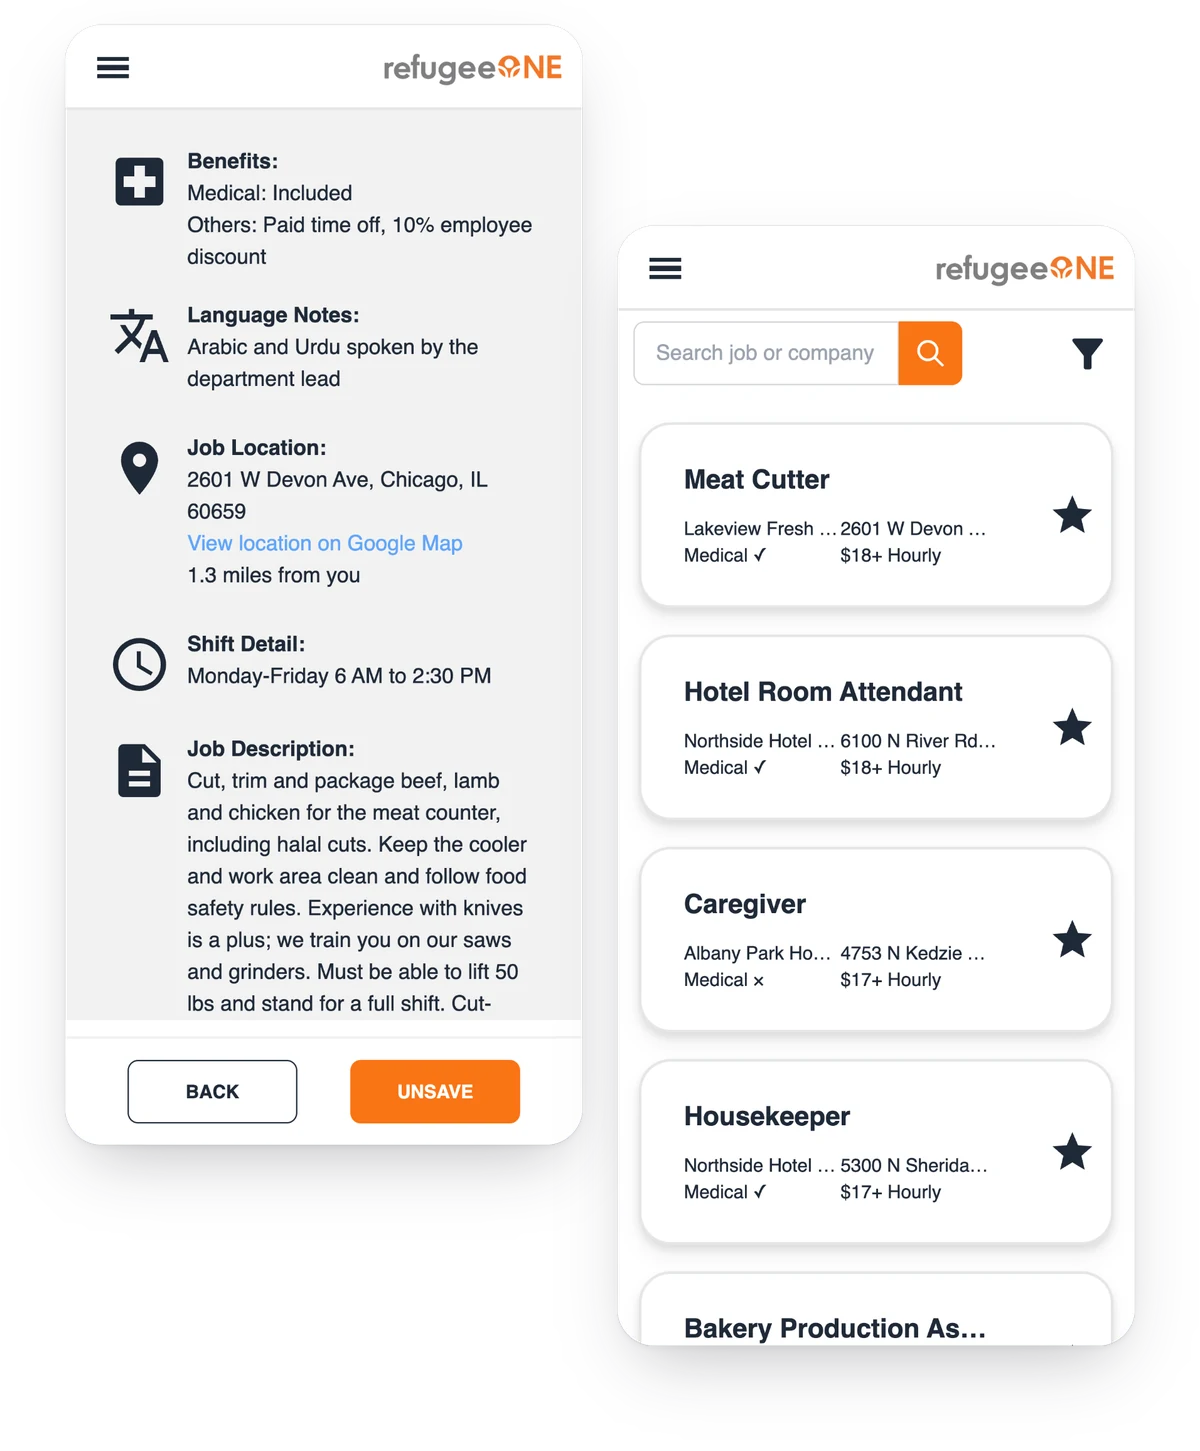
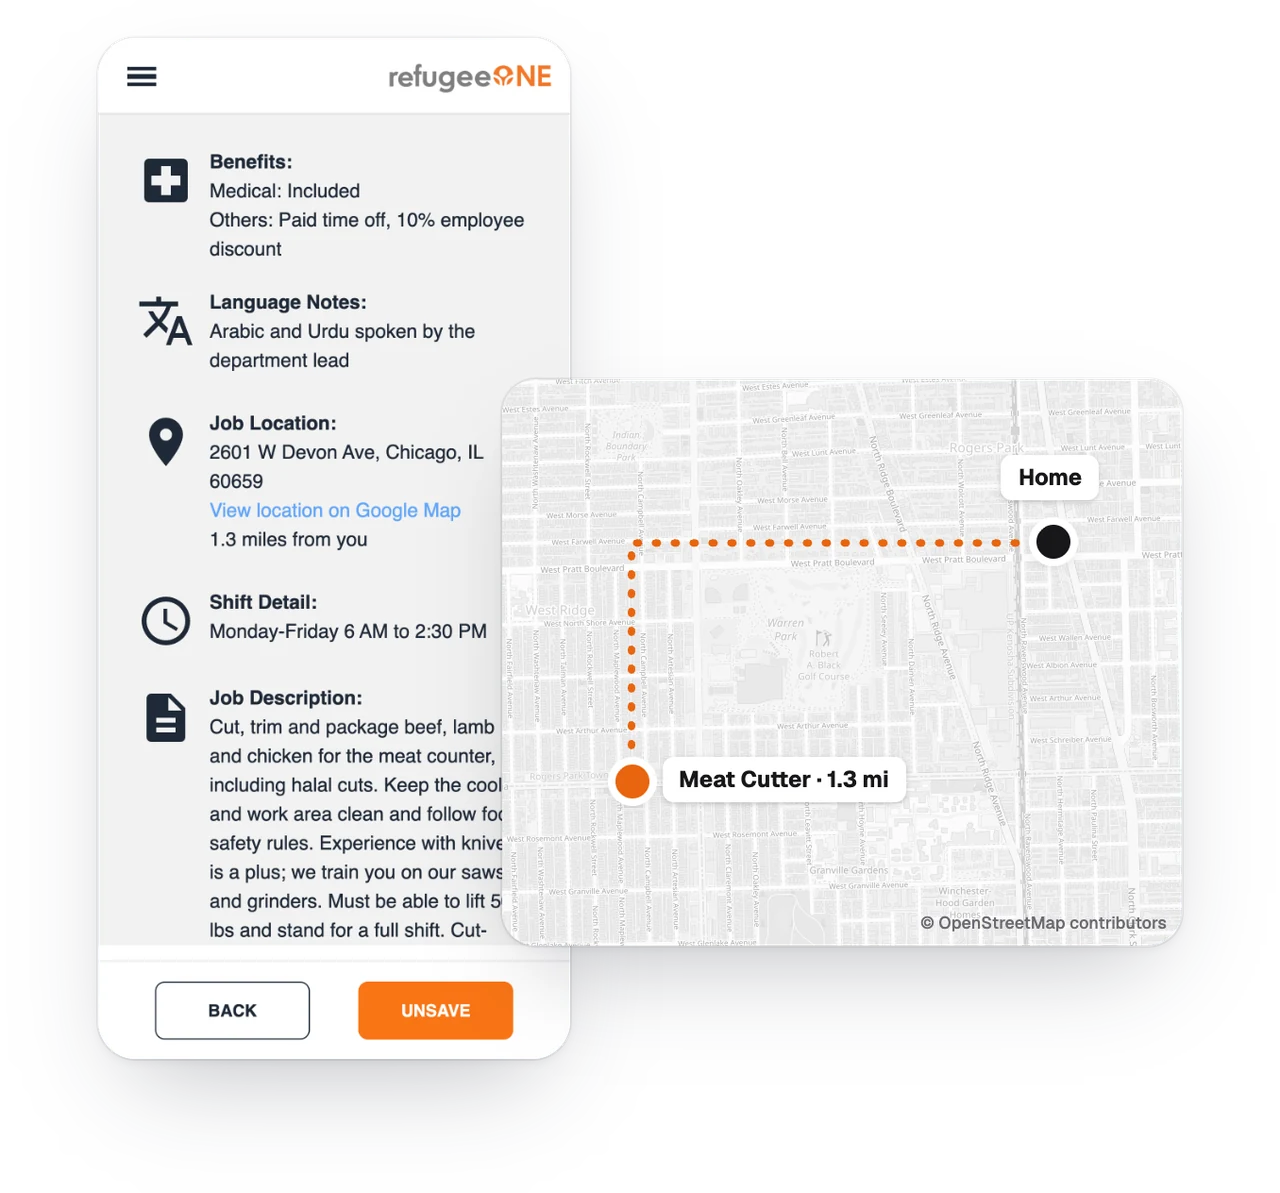
RefugeeOne product: numbered dividers for the three sides, the same feature rows for each, the save star moves to the cards, a map for the commute, plainer filter copy (#84)

diff --git a/src/data/cases/refugeeone.ts b/src/data/cases/refugeeone.ts
@@ -98,24 +98,18 @@ const workflows: CaseBlock[] = [
 ];
 
 const screensRefugee: CaseBlock[] = [
-  { t: "feature", bare: true, src: "refugeeone/client-cards.png", title: "The facts first", text: "Every card leads with what refugees check first: the role, the employer, the address, starting pay and whether medical is included. One tap opens the rest, each field with its own icon." },
-  { t: "feature", bare: true, src: "refugeeone/client-filter.png", title: "Filters built around a day", text: "Pay floor, English level, 22 languages, a shift window and distance from home. A refugee can ask for ==full-time, $17 an hour or more, between 6 a.m. and 6 p.m., within five miles, with medical==." },
-  { t: "feature", bare: true, src: "refugeeone/client-distance.png", title: "How far is it?", text: "Distance from home is worked out from the client's address, so every job says how many miles away it is, and the location opens in Google Maps with one tap. A star saves the job for the next meeting with staff." },
+  { t: "feature", bare: true, src: "refugeeone/client-cards.png", title: "The facts first", text: "Each card shows the role, employer, address, starting pay and medical, with a star to save it for later. Tap a card for every detail, each with its own icon." },
+  { t: "feature", bare: true, src: "refugeeone/client-filter.png", title: "Filters built around a day", text: "Refugees filter by what decides a job for them: ==pay, shift times, English level, language, distance and benefits==." },
+  { t: "feature", bare: true, src: "refugeeone/client-distance.png", title: "How far is it?", text: "Every job shows how many miles it is from home, and opens in Google Maps in one tap to check the commute." },
 ];
 
 const screensEmployer: CaseBlock[] = [
-  { t: "sub", text: "Post once, track it" },
-  { t: "p", text: "Employers post from a laptop, save a long form as a draft, and follow each job through Pending, Approved and Action Required. When staff send a job back, their note shows up right on it." },
-  { t: "img", src: "refugeeone/employer.png", caption: "An employer's dashboard: a job sent back with feedback from RefugeeOne, on a laptop and a phone", w: 1040 },
+  { t: "feature", bare: true, src: "refugeeone/employer.png", title: "Post once, track it", text: "Employers post from a laptop, save long forms as drafts, and follow each job through Pending, Approved and Action Required. When staff send a job back, their note appears right on it." },
 ];
 
 const screensStaff: CaseBlock[] = [
-  { t: "sub", text: "One queue for every job" },
-  { t: "p", text: "Staff see every new posting in one place and approve, edit or reject it. A rejection can carry a reason, which the employer sees as feedback." },
-  { t: "img", src: "refugeeone/admin-queue.png", caption: "Rejecting a posting with a reason the employer will see", w: 1040 },
-  { t: "sub", text: "RefugeeOne holds the keys" },
-  { t: "p", text: "Staff create refugee accounts themselves and approve each employer who signs up. Nobody hands out passwords: new users get an email and set their own." },
-  { t: "img", src: "refugeeone/admin-accounts.png", caption: "Manage Accounts: employers waiting for approval sort to the top", w: 1040 },
+  { t: "feature", bare: true, src: "refugeeone/admin-queue.png", title: "One queue for every job", text: "Every new posting lands in one queue. Staff approve, edit or reject it, and a rejection can carry a note the employer sees." },
+  { t: "feature", bare: true, src: "refugeeone/admin-accounts.png", title: "RefugeeOne holds the keys", text: "Staff create refugee accounts and approve every employer who signs up. New users get an email and set their own password." },
 ];
 
 const demo: CaseBlock = { t: "embed", kind: "youtube", src: "https://www.youtube-nocookie.com/embed/YzZrsk8REAc?rel=0", caption: "The walkthrough video our team made for the expo" };
@@ -215,11 +209,11 @@ const a: CaseStudy = {
       ...workflows,
     ] },
     { id: "product", label: "The Product", blocks: [
-      { t: "h", text: "For refugees" },
+      { t: "part", title: "For refugees", text: "Find work on their own phones." },
       ...screensRefugee,
-      { t: "h", text: "For employers" },
+      { t: "part", title: "For employers", text: "Post jobs with every detail that matters." },
       ...screensEmployer,
-      { t: "h", text: "For RefugeeOne" },
+      { t: "part", title: "For RefugeeOne", text: "Review every job and every account." },
       ...screensStaff,
       demo,
     ] },

diff --git a/src/apps/ProjectsApp.tsx b/src/apps/ProjectsApp.tsx
@@ -311,6 +311,8 @@ function CaseBlockView({ b, flip, n }: { b: CaseBlock; flip: boolean; n: number 
         {b.note && <p className="note"><Rich text={b.note} /></p>}
       </div>
     );
+  if (b.t === "part")
+    return <div className="cs-part"><span className="n">{String(n).padStart(2, "0")}</span><div><h3>{b.title}</h3>{b.text && <p><Rich text={b.text} /></p>}</div></div>;
   if (b.t === "timeline")
     return <ol className="cs-timeline">{b.items.map((x) => <li key={x.date + x.title}><time>{x.date}</time><div><h4>{x.title}</h4><p><Rich text={x.text} /></p></div></li>)}</ol>;
   if (b.t === "versus")
@@ -409,9 +411,10 @@ export function ProjectDetailApp({ slug }: { slug?: string }) {
         </nav>
       )}
       {cs.sections.map((s, si) => {
-        let features = 0, steps = 0, items = 0;
+        let features = 0, steps = 0, items = 0, parts = 0;
         const blocks = s.blocks.map((b, i) => {
-          const n = b.t === "step" ? ++steps : b.t === "item" ? ++items : 0;
+          const n = b.t === "step" ? ++steps : b.t === "item" ? ++items : b.t === "part" ? ++parts : 0;
+          if (b.t === "part") features = 0; // each part starts with its picture on the left
           return <CaseBlockView key={i} b={b} flip={(b.t === "feature" && features++ % 2 === 1) || (b.t === "item" && n % 2 === 0)} n={n} />;
         });
         // The meta rail sits beside the opening text only; the first band/figure goes full width.

diff --git a/src/styles.css b/src/styles.css
@@ -1166,6 +1166,14 @@ button { font-family: inherit; color: inherit; }
 .cs-stats dd { margin: 6px 0 0; font-family: var(--font-sans); font-size: 15px; line-height: 1.5; color: #494949; text-wrap: pretty; }
 .cs-stats .note { margin: 18px 0 0; font: 14px/1.5 var(--font-sans); color: #777; }
 
+/* part: a numbered divider that opens one part of a section (the three sides of a product) */
+.cs-part { display: grid; grid-template-columns: 64px minmax(0, 1fr); align-items: baseline; margin: 104px 0 8px; padding-top: 28px; border-top: 1px solid #d9d9de; }
+.cs-col > .cs-part:first-child { margin-top: 0; }
+.cs-part .n { font-family: var(--font-display); font-weight: 800; font-size: 28px; line-height: 1.2; color: var(--cs-band, var(--cs)); }
+.cs-part h3 { margin: 0; font-family: var(--font-display); font-weight: 800; font-size: 28px; line-height: 1.25; color: #181818; }
+.cs-part p { margin: 8px 0 0; font-family: var(--font-sans); font-size: 17px; line-height: 1.6; color: #6b6b72; }
+.cs-part + .cs-feature { margin-top: 40px; }
+
 /* timeline: dated milestones on a vertical line */
 .cs-timeline { list-style: none; margin: 32px 0 40px; padding: 0; }
 .cs-timeline li { position: relative; display: grid; grid-template-columns: 112px minmax(0, 1fr); gap: 28px; padding: 0 0 30px; }

diff --git a/src/data/cases.ts b/src/data/cases.ts
@@ -48,6 +48,7 @@ export type CaseBlock =
   | { t: "stats"; items: { value: string; label: string }[]; note?: string } // 2–4 big numbers in one row, a hairline above (impact)
   | { t: "timeline"; items: { date: string; title: string; text: string }[] } // dated milestones on a vertical line
   | { t: "versus"; before: { label: string; title: string; items: string[] }; after: { label: string; title: string; items: string[] } } // what was asked for vs what was built
+  | { t: "part"; title: string; text?: string } // a numbered divider that opens one part of a section (01 For refugees …)
   | { t: "flow"; items: { who: string; title: string; text: string }[] }; // one thing moving through people, left to right (who = the actor tag)
 export interface CaseSection { id: string; label: string; blocks: CaseBlock[]; white?: boolean; dark?: boolean } // dark: a near-black band (game screenshots) // white: keep the band white (white-background slides)
 export interface CaseStudy {

diff --git a/docs/LAYOUT_GUIDE.md b/docs/LAYOUT_GUIDE.md
@@ -145,6 +145,7 @@ Inline marks in any text: `**bold**`, `==highlight==` (use for the one phrase a 
 | `cards` | 2–4 equal cards, numbered unless `numbers: false` | Findings, takeaways, the roles someone played |
 | `sprints` | A gantt of weeks, phases and tracks | A sprint plan |
 | `metrics` / `chat` / `panels` | Numbered metric cards; old-site speech bubbles; old-site feature panels | Connectr's research and metrics |
+| `part` | A numbered divider (01, 02 …) with a hairline, a 28px title and an optional one-line lead; feature rows restart on the left after it | Splitting one section into parallel parts, e.g. the three sides of a product. Give every part the same block form |
 | `stats` | 2–4 big accent numbers in one row, a hairline above each, optional note | The results band in an Overview |
 | `timeline` | Dated milestones on a vertical line | How a project unfolded week to week |
 | `versus` | Two cards: the quiet "before" and the accented "after", each a title + bullets | What the client asked for vs what was built |
